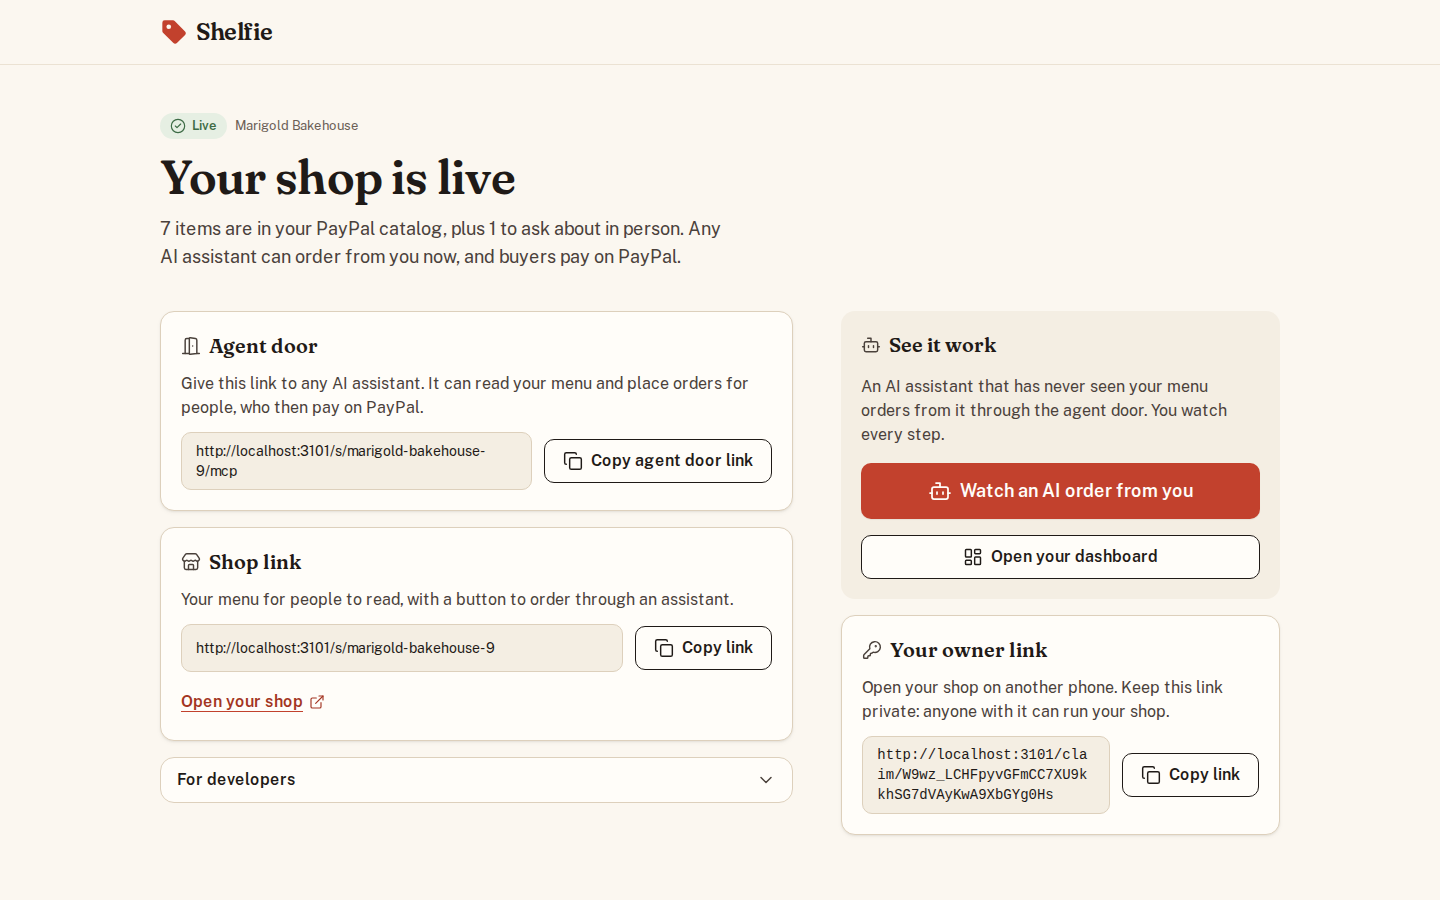
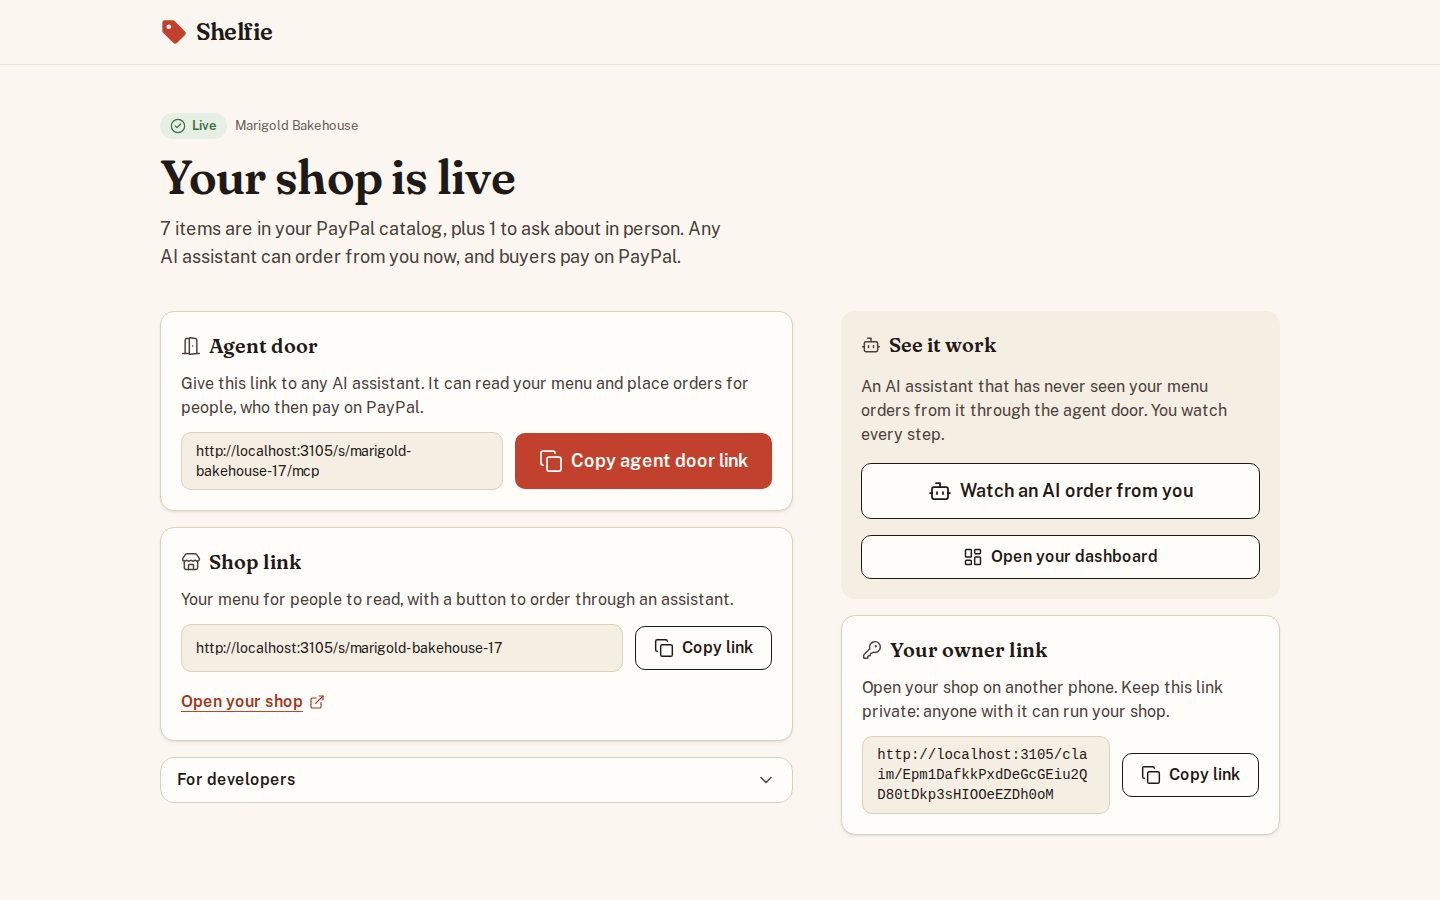
Live step: Copy agent door link is the one primary action (spec §4)
The agent door's copy button is now the primary (large) button and its card comes first on
phones, so it is on screen without scrolling at 390 px. "Watch an AI order from you" is a
secondary button in the See it work card. Desktop keeps the links on the left and the next
step and owner link on the right. Live screenshots regenerated (real Claude + sandbox run
and the partial-publish e2e).

diff --git a/src/components/setup/LiveStep.tsx b/src/components/setup/LiveStep.tsx
@@ -38,7 +38,20 @@ async function copyText(text: string): Promise<boolean> {
 }
 
 /** A link shown in full (it wraps), with a Copy button that confirms in place and with a toast. */
-function CopyRow({ value, label, copyLabel = 'Copy link', mono }: { value: string; label: string; copyLabel?: string; mono?: boolean }) {
+function CopyRow({
+  value,
+  label,
+  copyLabel = 'Copy link',
+  mono,
+  primary,
+}: {
+  value: string;
+  label: string;
+  copyLabel?: string;
+  mono?: boolean;
+  /** The screen's one primary action. */
+  primary?: boolean;
+}) {
   const toast = useToast();
   const [copied, setCopied] = useState(false);
   const id = useId();
@@ -59,7 +72,8 @@ function CopyRow({ value, label, copyLabel = 'Copy link', mono }: { value: strin
         {value}
       </code>
       <Button
-        variant="secondary"
+        variant={primary ? 'primary' : 'secondary'}
+        size={primary ? 'lg' : 'md'}
         icon={copied ? Check : Copy}
         aria-describedby={id}
         onClick={async () => {
@@ -74,10 +88,10 @@ function CopyRow({ value, label, copyLabel = 'Copy link', mono }: { value: strin
   );
 }
 
-function LinkCard({ icon, title, children }: { icon: LucideIcon; title: string; children: ReactNode }) {
+function LinkCard({ icon, title, className, children }: { icon: LucideIcon; title: string; className?: string; children: ReactNode }) {
   const id = useId();
   return (
-    <Card as="section" aria-labelledby={id} className="flex flex-col gap-3">
+    <Card as="section" aria-labelledby={id} className={cx('flex flex-col gap-3', className)}>
       <h2 id={id} className="flex items-center gap-2 type-heading">
         <Icon icon={icon} className="text-ink-soft" />
         {title}
@@ -140,15 +154,23 @@ export function LiveStep(p: LiveProps) {
         </Card>
       )}
 
-      {/* Phones: the next step first, then the links. Desktop: links on the left, next step on the right. */}
-      <div className="grid items-start gap-4 lg:grid-cols-12 lg:grid-rows-[auto_1fr] lg:gap-x-12 lg:gap-y-4">
-        <Card as="section" aria-labelledby="try-title" tone="sunken" className="flex flex-col gap-4 lg:col-span-5 lg:col-start-8 lg:row-start-1">
+      {/* The primary action, Copy agent door link, comes first on phones; then the next step to try, then the rest.
+          Desktop: the links on the left, the next step and the owner link on the right. */}
+      <div className="grid items-start gap-4 lg:grid-cols-12 lg:gap-x-12 lg:gap-y-4">
+        <LinkCard icon={DoorOpen} title="Agent door" className="lg:col-span-7 lg:col-start-1 lg:row-start-1">
+          <p className="text-ink-soft">
+            Give this link to any AI assistant. It can read your menu and place orders for people, who then pay on PayPal.
+          </p>
+          <CopyRow value={p.agentDoorUrl} label="Agent door link" copyLabel="Copy agent door link" primary />
+        </LinkCard>
+
+        <Card as="section" aria-labelledby="try-title" tone="sunken" className="flex flex-col gap-4 lg:col-span-5 lg:col-start-8 lg:row-span-2 lg:row-start-1">
           <h2 id="try-title" className="flex items-center gap-2 type-heading">
             <Icon icon={Bot} className="text-ink-soft" />
             See it work
           </h2>
           <p className="text-ink-soft">An AI assistant that has never seen your menu orders from it through the agent door. You watch every step.</p>
-          <ButtonLink href={`/s/${p.slug}?assistant=1`} variant="primary" size="lg" icon={Bot} fullWidth>
+          <ButtonLink href={`/s/${p.slug}?assistant=1`} size="lg" icon={Bot} fullWidth>
             Watch an AI order from you
           </ButtonLink>
           <ButtonLink href={`/shops/${p.shopId}`} icon={LayoutDashboard} fullWidth>
@@ -156,14 +178,7 @@ export function LiveStep(p: LiveProps) {
           </ButtonLink>
         </Card>
 
-        <div className="flex flex-col gap-4 lg:col-span-7 lg:col-start-1 lg:row-span-2 lg:row-start-1">
-          <LinkCard icon={DoorOpen} title="Agent door">
-            <p className="text-ink-soft">
-              Give this link to any AI assistant. It can read your menu and place orders for people, who then pay on PayPal.
-            </p>
-            <CopyRow value={p.agentDoorUrl} label="Agent door link" copyLabel="Copy agent door link" />
-          </LinkCard>
-
+        <div className="flex flex-col gap-4 lg:col-span-7 lg:col-start-1 lg:row-span-2 lg:row-start-2">
           <LinkCard icon={Store} title="Shop link">
             <p className="text-ink-soft">Your menu for people to read, with a button to order through an assistant.</p>
             <CopyRow value={p.shopUrl} label="Shop link" />
@@ -193,7 +208,7 @@ export function LiveStep(p: LiveProps) {
         </div>
 
         {p.ownerLink && (
-          <div className="lg:col-span-5 lg:col-start-8 lg:row-start-2">
+          <div className="lg:col-span-5 lg:col-start-8 lg:row-start-3">
             <LinkCard icon={KeyRound} title="Your owner link">
               <p className="text-ink-soft">Open your shop on another phone. Keep this link private: anyone with it can run your shop.</p>
               <CopyRow value={p.ownerLink} label="Owner link" mono />
